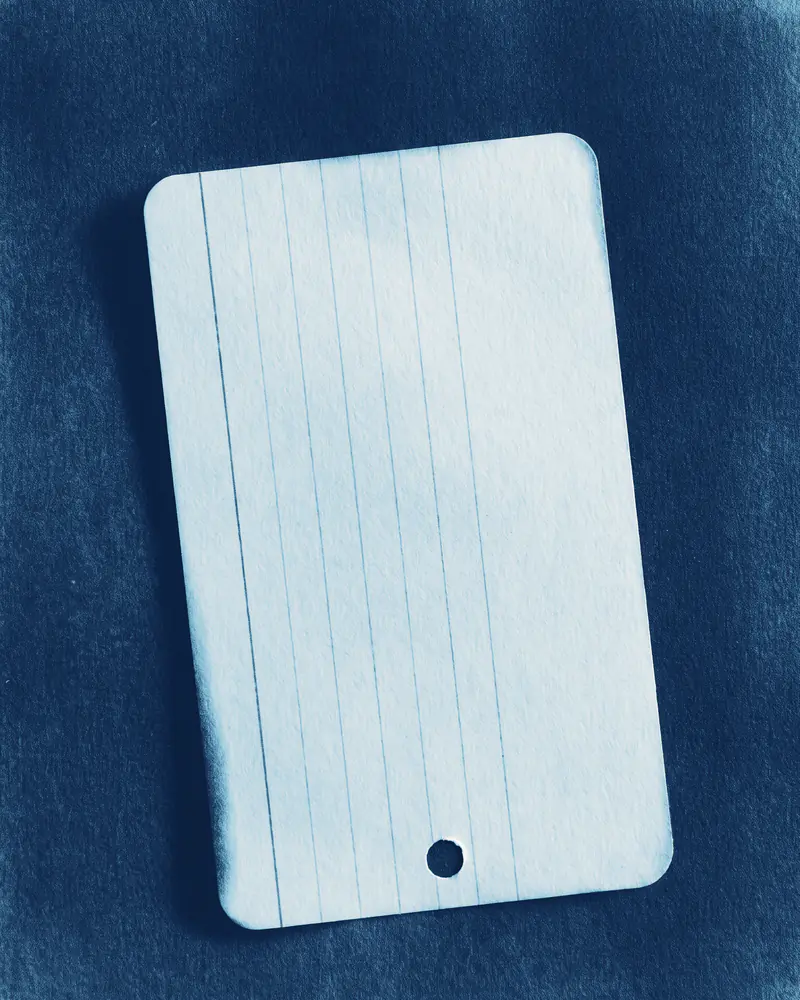
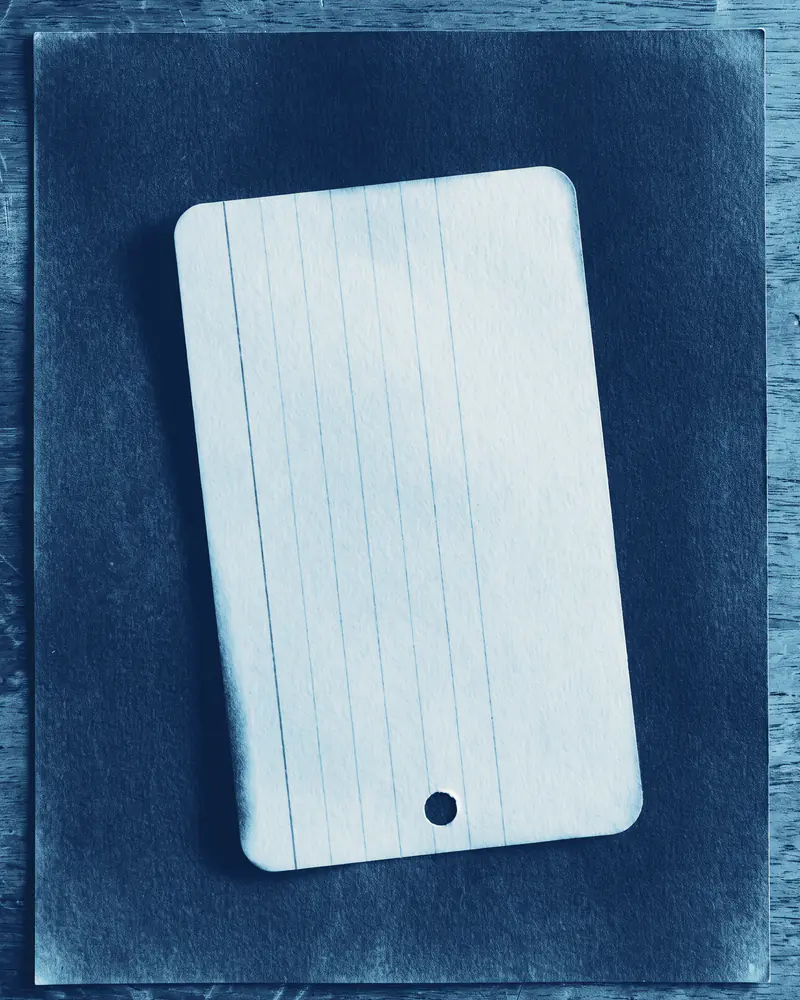
style(web): labels in the display face, a print on the desk, headings that hold together
Section links and card labels are set in the display face as small
capitals; the mono face is kept for paths, links, hashes and commands.
The founder's line now sits beside the whole cyanotype print on the
desk, square-cut, instead of a cropped tile. Each sentence of a heading
balances on its own line, the recompute command is a typed line under a
rule that wraps only between words, and the closing photo runs into the
footer.

diff --git a/owin/web/about.css b/owin/web/about.css
@@ -60,8 +60,9 @@ a{color:inherit}
 .skip{position:absolute;left:12px;top:-60px;z-index:100;background:var(--stock);color:var(--ink);padding:10px 14px;border-radius:var(--r-tag);font:700 15px/1 var(--display);text-decoration:none}
 .skip:focus{top:12px}
 h1,h2{font-family:var(--display);text-wrap:balance}
+.ln{display:inline-block;text-wrap:balance}
 h2{font-weight:700;font-size:clamp(32px, 3.4vw, 50px);line-height:1.06;letter-spacing:-.015em}
-.lbl{font:700 12px/1.35 var(--mono);letter-spacing:.08em;text-transform:uppercase;color:var(--muted)}
+.lbl{font:700 12px/1.35 var(--display);letter-spacing:.07em;text-transform:uppercase;color:var(--muted)}
 
 /* Buttons and links. The primary button is card stock: red stays with what is not true. */
 .btn{display:inline-flex;align-items:center;gap:10px;min-height:54px;padding:0 26px;border-radius:999px;font:700 17px/1 var(--display);letter-spacing:.005em;text-decoration:none;white-space:nowrap;transition:background-color .18s var(--ease),transform .18s var(--ease),opacity .2s var(--ease),visibility .2s}
@@ -79,7 +80,7 @@ h2{font-weight:700;font-size:clamp(32px, 3.4vw, 50px);line-height:1.06;letter-sp
 .nav-in{display:flex;align-items:center;gap:24px;height:56px;padding:0 8px 0 22px;background:var(--field-deep);border-radius:999px;box-shadow:0 0 0 1px rgba(164,198,222,.3),0 14px 34px -20px rgba(14,33,56,.9)}
 .word{font:800 23px/1 var(--display);letter-spacing:-.025em;color:var(--on-field);text-decoration:none;padding:6px 2px}
 .nav-links{display:flex;gap:22px}
-.nav-links a{font:700 12px/1 var(--mono);letter-spacing:.09em;text-transform:uppercase;color:var(--on-field);text-decoration:none;padding:8px 0 6px;border-bottom:1.5px dotted transparent}
+.nav-links a{font:700 12.5px/1 var(--display);letter-spacing:.06em;text-transform:uppercase;color:var(--on-field);text-decoration:none;padding:8px 0 6px;border-bottom:1.5px dotted transparent}
 .nav-links a:hover,.nav-links a[aria-current="true"]{color:var(--on-field);border-bottom-color:var(--frame)}
 .nav-try{margin-left:2px}
 
@@ -103,7 +104,7 @@ html:not(.motion) .loop{display:none}
 .motion .ink.split .w.on{color:var(--field-deep)}
 .for{margin-top:40px;max-width:52ch;font-size:19px;line-height:1.55;color:var(--field)}
 .why-in{display:grid;grid-template-columns:minmax(0, 7fr) minmax(0, 4fr);gap:clamp(40px, 6vw, 104px);align-items:center}
-.print img{width:100%;height:auto;border-radius:var(--r-media);box-shadow:0 1px 0 rgba(0,0,0,.2),0 40px 70px -46px rgba(14,33,56,.85)}
+.print img{width:100%;height:auto;border-radius:6px}
 .motion .print img{filter:brightness(1.5) contrast(.55);transition:filter 1.6s var(--ease-out)}
 .motion .print.in img{filter:none}
 
@@ -194,7 +195,7 @@ html:not(.motion) .loop{display:none}
 .strike::after{content:"";position:absolute;left:-4px;right:-4px;top:52%;height:2.5px;border-radius:2px;background:var(--act);transform-origin:0 50%}
 .clock{display:grid;gap:8px;min-width:236px}
 .clock > div{display:flex;justify-content:space-between;align-items:center;gap:12px}
-.clock dt{font:500 11.5px/1 var(--mono);letter-spacing:.07em;text-transform:uppercase;color:var(--muted)}
+.clock dt{font:700 11.5px/1 var(--display);letter-spacing:.06em;text-transform:uppercase;color:var(--muted)}
 .clock dd{display:inline-grid;align-items:center;overflow:hidden;height:30px;padding:0 10px;border-radius:9px;font:700 14px/30px var(--mono);color:var(--ink);box-shadow:inset 0 0 0 1.5px var(--ruled)}
 .clock dd.lu{color:var(--stamp-stale);box-shadow:inset 0 0 0 1.5px var(--stamp-stale)}
 .clock .lu > span{grid-area:1/1;transition:transform .45s var(--ease-out)}
@@ -283,10 +284,11 @@ html:not(.motion) .loop{display:none}
 .number{background:var(--field);padding-block:var(--section)}
 .number .wrap{display:grid;grid-template-columns:5fr 6fr;gap:56px 88px;align-items:center}
 .number .tally{order:-1}
+.nsay h2{font-size:clamp(30px, 3vw, 44px)}
 .nsay .sub{margin-top:22px}
 .recompute{margin-top:34px;display:grid;gap:12px;justify-items:start}
 .recompute .lbl{color:var(--on-field-muted)}
-.cmd{font:700 14.5px/1.6 var(--mono);color:var(--on-field);background:rgba(255,255,255,.08);border-radius:10px;padding:8px 12px;max-width:100%;overflow-wrap:anywhere}
+.cmd{font:700 14.5px/1.6 var(--mono);color:var(--on-field);padding:0 0 6px;border-bottom:1px solid var(--line-on-field);max-width:100%;overflow-wrap:break-word}
 .recompute .links{display:flex;flex-wrap:wrap;gap:6px 22px}
 .recompute a{font:600 15.5px/1.4 var(--display);color:var(--on-field);text-decoration-color:var(--frame);text-underline-offset:5px;padding:6px 0}
 .tally{background:var(--stock);color:var(--ink);border-radius:var(--r-card);padding:22px 30px 10px;box-shadow:0 1px 0 rgba(0,0,0,.25)}
@@ -315,7 +317,7 @@ html:not(.motion) .loop{display:none}
 /* Close */
 .close{position:relative;isolation:isolate;min-height:86vh;display:flex;align-items:center;padding-block:var(--section);background:var(--field-deep);overflow:hidden}
 .close .still img,.close .loop{position:absolute;inset:0;width:100%;height:100%;object-fit:cover;object-position:80% 50%;z-index:-2}
-.close::before{content:"";position:absolute;inset:0;z-index:-1;background:linear-gradient(90deg, rgba(18,42,70,.8) 0%, rgba(18,42,70,.6) 34%, rgba(18,42,70,0) 58%)}
+.close::before{content:"";position:absolute;inset:0;z-index:-1;background:linear-gradient(0deg, var(--field-deep) 0%, rgba(18,42,70,0) 22%),linear-gradient(90deg, rgba(18,42,70,.8) 0%, rgba(18,42,70,.6) 34%, rgba(18,42,70,0) 58%)}
 .close h2{font-weight:800;font-size:clamp(40px, 5.2vw, 80px);line-height:1.02;letter-spacing:-.022em;max-width:12ch}
 .close .ctas{margin-top:40px}
 

diff --git a/owin/web/about.html b/owin/web/about.html
@@ -62,7 +62,7 @@
       <figure class="print dev">
         <picture>
           <source type="image/avif" srcset="/img/about-card-800.avif">
-          <img src="/img/about-card-800.webp" width="800" height="1000" loading="lazy" decoding="async" alt="A cyanotype print of one blank ruled index card with rounded corners and a punched hole.">
+          <img src="/img/about-card-800.webp" width="800" height="1000" loading="lazy" decoding="async" alt="A cyanotype print on a desk: one blank ruled index card with rounded corners and a punched hole.">
         </picture>
       </figure>
     </div>
@@ -72,7 +72,7 @@
     <div class="stage">
       <div class="wrap stage-in">
         <div class="steps">
-          <h2 id="catch-h">The catch,<br> on real vendor text</h2>
+          <h2 id="catch-h"><span class="ln">The catch,</span><br> <span class="ln">on real vendor text</span></h2>
           <ol class="beats" role="list">
             <li data-beat="0"><b>Your trust page says “zero data retention”.</b> Lumen Notes wrote answer 3 on September 1, 2026, and listed one exception.</li>
             <li data-beat="1"><b>One endpoint calls a feature ZDR does not cover.</b> <span class="mono nw">/api/crm-sync</span> writes call summaries into the customer’s CRM through Anthropic’s MCP connector.</li>
@@ -105,7 +105,7 @@
   <section class="stamps" id="stamps" aria-labelledby="stamps-h">
     <div class="sheet">
       <div class="wrap">
-        <h2 id="stamps-h">Five stamps.<br> None of them is a guess.</h2>
+        <h2 id="stamps-h"><span class="ln">Five stamps.</span><br> <span class="ln">None of them is a guess.</span></h2>
         <p class="sub">Plain code picks the stamp from the vendor’s own page. The frame of each stamp carries its meaning, so it reads without colour too.</p>
         <div class="ledger">
           <div class="row" data-state="bad">
@@ -152,7 +152,7 @@
         </picture>
       </div>
       <div class="wrap stage-in">
-        <h2 id="how-h">Nemotron reads.<br> Plain code decides.</h2>
+        <h2 id="how-h"><span class="ln">Nemotron reads.</span><br> <span class="ln">Plain code decides.</span></h2>
         <ol class="beats" role="list">
           <li data-beat="0">
             <div class="say"><b>Tavily fetches each vendor page whole.</b> With its fetch time, hash and “Last updated” date, so Stale is a dated observation, not a hunch.</div>
@@ -209,7 +209,7 @@
   <section class="number" id="number" aria-labelledby="num-h">
     <div class="wrap">
       <div class="nsay">
-        <h2 id="num-h">It answers when its readings agree.<br> When they don’t, it asks you.</h2>
+        <h2 id="num-h"><span class="ln">It answers when its readings agree.</span><br> <span class="ln">When they don’t, it asks you.</span></h2>
         <p class="sub">On 7 AI vendors, 6 of them new to Owin: 11 features on 8 pages, with labels committed before the prompt was written. On the 6 answers it handed over, a majority vote would have been right only 2 times.</p>
         <p class="recompute"><span class="lbl">Recompute it, no key needed</span><code class="cmd">owin eval selective --corpus datause --split v3fresh</code><span class="links"><a href="/api/selective">Ask this server now</a><a href="/FACTS.md">Every number, with its source</a></span></p>
       </div>
@@ -224,7 +224,7 @@
 
   <section class="limits" id="limits" aria-labelledby="lim-h">
     <div class="wrap">
-      <h2 id="lim-h">What we’ll tell you<br> before you find it</h2>
+      <h2 id="lim-h"><span class="ln">What we’ll tell you</span><br> <span class="ln">before you find it</span></h2>
       <ul class="said" role="list">
         <li><b>The demo company is fictional.</b> Lumen Notes, its endpoints and its ZDR settings are invented, and Owin cannot see vendor consoles. Every vendor sentence, link and fetch time is real.</li>
         <li><b>One labeller, no human audit yet.</b> An AI coding agent labelled every item and a second pass spot-checked. The one confident miss is a label error we found ourselves and kept, because the labels were pre-registered.</li>
